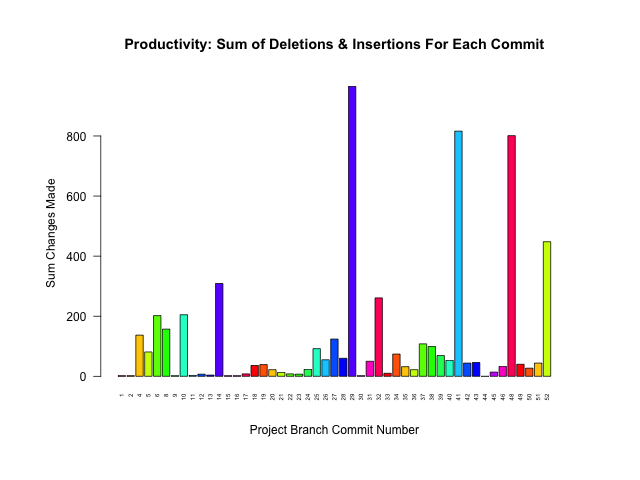
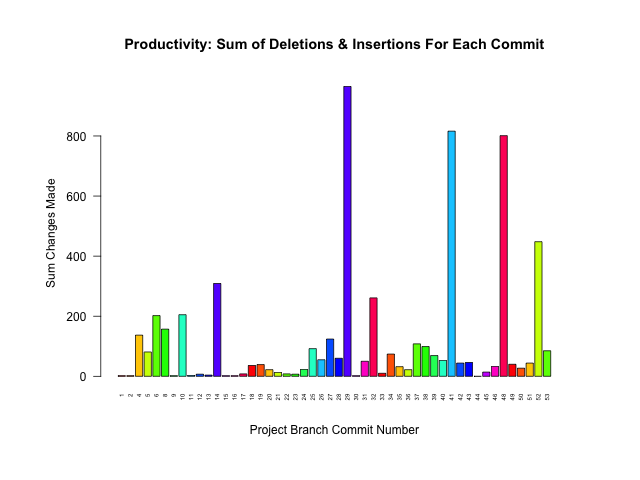
COMMIT #110

Changed region(s): [[0.2812, 0.1562, 0.875, 0.8438], [0.2188, 0.5938, 0.4375, 0.7812]]

diff --git a/README.md b/README.md
@@ -18,8 +18,8 @@ ProjectName::BranchName.data
 
 Project Name | Last Updated | # of Commits | # of Branches
 :---|:---|:---|:---
-FASTQ_examiner_project                   |  2023-04-06  |  52   |  2
-commit_tracker_project                   |  2023-04-06  |  108  |  1
+commit_tracker_project                   |  2023-04-07  |  109  |  1
+FASTQ_examiner_project                   |  2023-04-06  |  53   |  2
 minishell_project                        |  2023-02-03  |  67   |  8
 ft_printf_project                        |  2023-01-27  |  36   |  2
 test_non-fastforward_merge-push_project  |  2023-01-27  |  15   |  2
